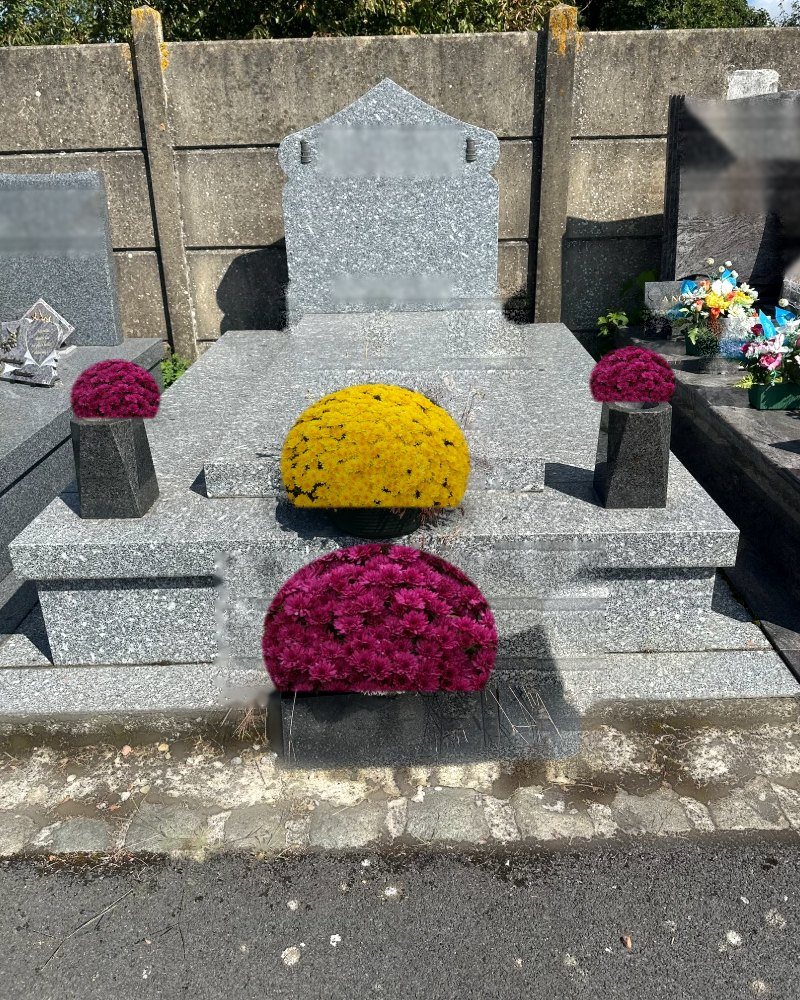
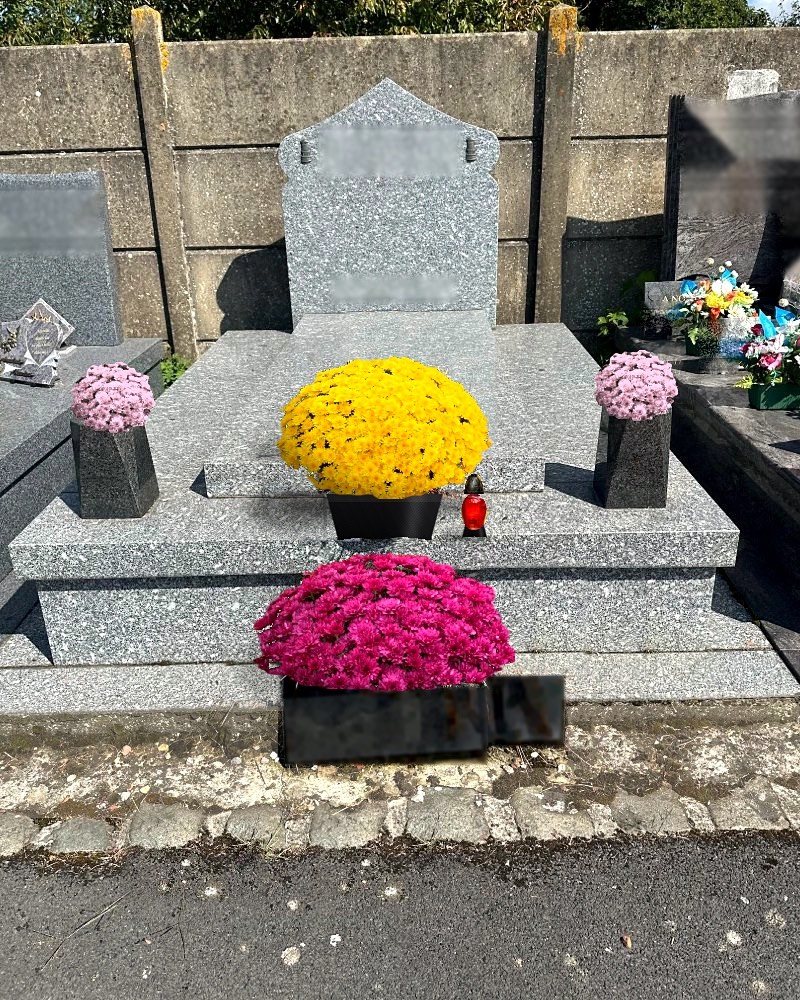
Use real cemetery photos and a new after picture
Rebuild the simulated after picture on the real before photo, use the
cemetery overview as the banner and a real grave photo in the gallery,
with names hidden.

diff --git a/index.html b/index.html
@@ -55,7 +55,7 @@
       </div>
       <div class="showcase">
         <figure class="ba" aria-label="Exemple de tombe avant et après une visite">
-          <img src="/photos/ba-apres.jpg" alt="La tombe nettoyée, avec deux pots de chrysanthèmes frais" width="800" height="1000" fetchpriority="high">
+          <img src="/photos/ba-apres.jpg?v=2" alt="La même tombe nettoyée et fleurie de chrysanthèmes jaunes et pourpres, avec une bougie" width="800" height="1000" fetchpriority="high">
           <img class="ba-before" src="/photos/ba-avant.jpg" alt="La même tombe avant la visite, avec des fleurs fanées et des herbes sèches" width="800" height="1000">
           <span class="ba-tag l">Avant</span><span class="ba-tag r">Après</span>
           <span class="ba-line" aria-hidden="true"></span>
@@ -101,14 +101,14 @@
       <div class="sec-head">
         <p class="eyebrow">Les petites attentions</p>
         <h2>Comme si vous étiez là</h2>
-        <p>Des fleurs de saison, une bougie qui veille, une allée balayée&nbsp;: les gestes que vous feriez vous-même, faits avec le même soin.</p>
+        <p>Des fleurs de saison, une bougie qui veille, une pierre propre&nbsp;: les gestes que vous feriez vous-même, faits avec le même soin.</p>
       </div>
       <div class="gallery">
         <figure class="shot"><img src="/photos/g-fleurs.jpg" alt="Chrysanthèmes jaunes et pourpres" width="800" height="1000" loading="lazy"><figcaption><b>Des fleurs de saison</b><span>Chrysanthèmes, bouquets&nbsp;: vous choisissez.</span></figcaption></figure>
         <figure class="shot"><img src="/photos/g-bougies.jpg" alt="Bougies de cimetière parmi les feuilles d’automne" width="800" height="1000" loading="lazy"><figcaption><b>Une bougie allumée</b><span>Une petite lumière, pour 4&nbsp;€.</span></figcaption></figure>
-        <figure class="shot"><img src="/photos/g-allee.jpg" alt="Allée de cimetière bordée d’arbres en automne" width="800" height="1000" loading="lazy"><figcaption><b>Partout en France</b><span>Dans les villes comme dans les villages.</span></figcaption></figure>
+        <figure class="shot"><img src="/photos/g-tombe.jpg" alt="Tombe en granit propre, avec un chrysanthème pourpre" width="800" height="1000" loading="lazy"><figcaption><b>Une pierre propre</b><span>Eau claire et brosse douce, rien d’autre.</span></figcaption></figure>
       </div>
-      <p class="photo-credit">Photos d’illustration (Pexels).</p>
+      <p class="photo-credit">Photos d’illustration. Fleurs et bougie&nbsp;: Pexels.</p>
     </div>
   </section>
 
@@ -168,7 +168,7 @@
   </section>
 
   <section class="cine" aria-label="Nous y allons pour vous">
-    <img src="/photos/band-allee.jpg" alt="" width="1800" height="990" loading="lazy">
+    <img src="/photos/band-cimetiere.jpg" alt="" width="1800" height="990" loading="lazy">
     <div class="wrap">
       <p class="eyebrow">Partout en France</p>
       <h2>Vous êtes loin. <em>Nous y allons pour vous.</em></h2>

diff --git a/en/index.html b/en/index.html
@@ -56,7 +56,7 @@
       </div>
       <div class="showcase">
         <figure class="ba" aria-label="Example of a grave before and after a visit">
-          <img src="/photos/ba-apres.jpg" alt="The grave after cleaning, with fresh chrysanthemums" width="800" height="1000" fetchpriority="high">
+          <img src="/photos/ba-apres.jpg?v=2" alt="The same grave cleaned, with yellow and burgundy chrysanthemums and a candle" width="800" height="1000" fetchpriority="high">
           <img class="ba-before" src="/photos/ba-avant.jpg" alt="The same grave before the visit, with withered flowers and dry grass" width="800" height="1000">
           <span class="ba-tag l">Before</span><span class="ba-tag r">After</span>
           <span class="ba-line" aria-hidden="true"></span>
@@ -102,14 +102,14 @@
       <div class="sec-head">
         <p class="eyebrow">The little touches</p>
         <h2>As if you were there</h2>
-        <p>Seasonal flowers, a candle keeping watch, a path swept clean: the things you would do yourself, done with the same care.</p>
+        <p>Seasonal flowers, a candle keeping watch, a clean stone: the things you would do yourself, done with the same care.</p>
       </div>
       <div class="gallery">
         <figure class="shot"><img src="/photos/g-fleurs.jpg" alt="Yellow and purple chrysanthemums" width="800" height="1000" loading="lazy"><figcaption><b>Seasonal flowers</b><span>Chrysanthemums or a bouquet: you choose.</span></figcaption></figure>
         <figure class="shot"><img src="/photos/g-bougies.jpg" alt="Grave candles among autumn leaves" width="800" height="1000" loading="lazy"><figcaption><b>A lit candle</b><span>A small light, for €4.</span></figcaption></figure>
-        <figure class="shot"><img src="/photos/g-allee.jpg" alt="Tree-lined cemetery path in autumn" width="800" height="1000" loading="lazy"><figcaption><b>Anywhere in France</b><span>In cities and villages alike.</span></figcaption></figure>
+        <figure class="shot"><img src="/photos/g-tombe.jpg" alt="A clean granite grave with a burgundy chrysanthemum" width="800" height="1000" loading="lazy"><figcaption><b>A clean stone</b><span>Clear water and a soft brush, nothing more.</span></figcaption></figure>
       </div>
-      <p class="photo-credit">Illustrative photos (Pexels).</p>
+      <p class="photo-credit">Illustrative photos. Flowers and candle: Pexels.</p>
     </div>
   </section>
 
@@ -169,7 +169,7 @@
   </section>
 
   <section class="cine" aria-label="We go there for you">
-    <img src="/photos/band-allee.jpg" alt="" width="1800" height="990" loading="lazy">
+    <img src="/photos/band-cimetiere.jpg" alt="" width="1800" height="990" loading="lazy">
     <div class="wrap">
       <p class="eyebrow">Anywhere in France</p>
       <h2>You are far away. <em>We go there for you.</em></h2>
